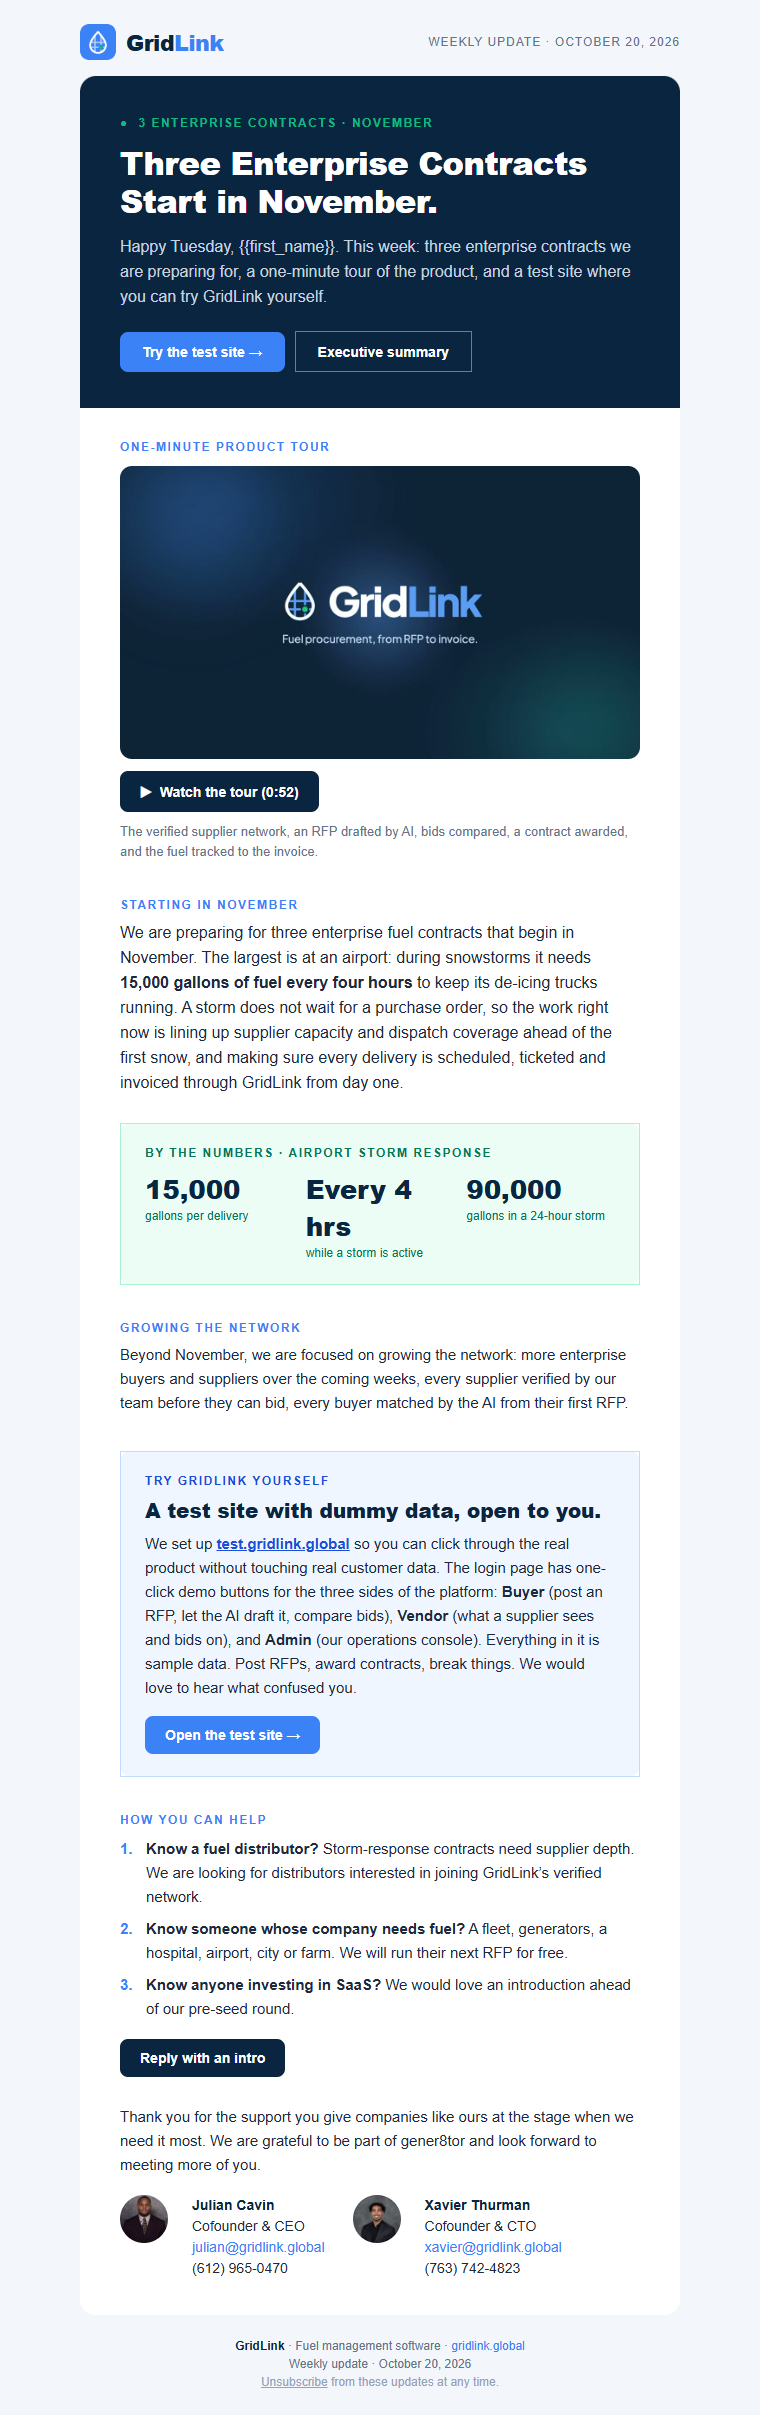
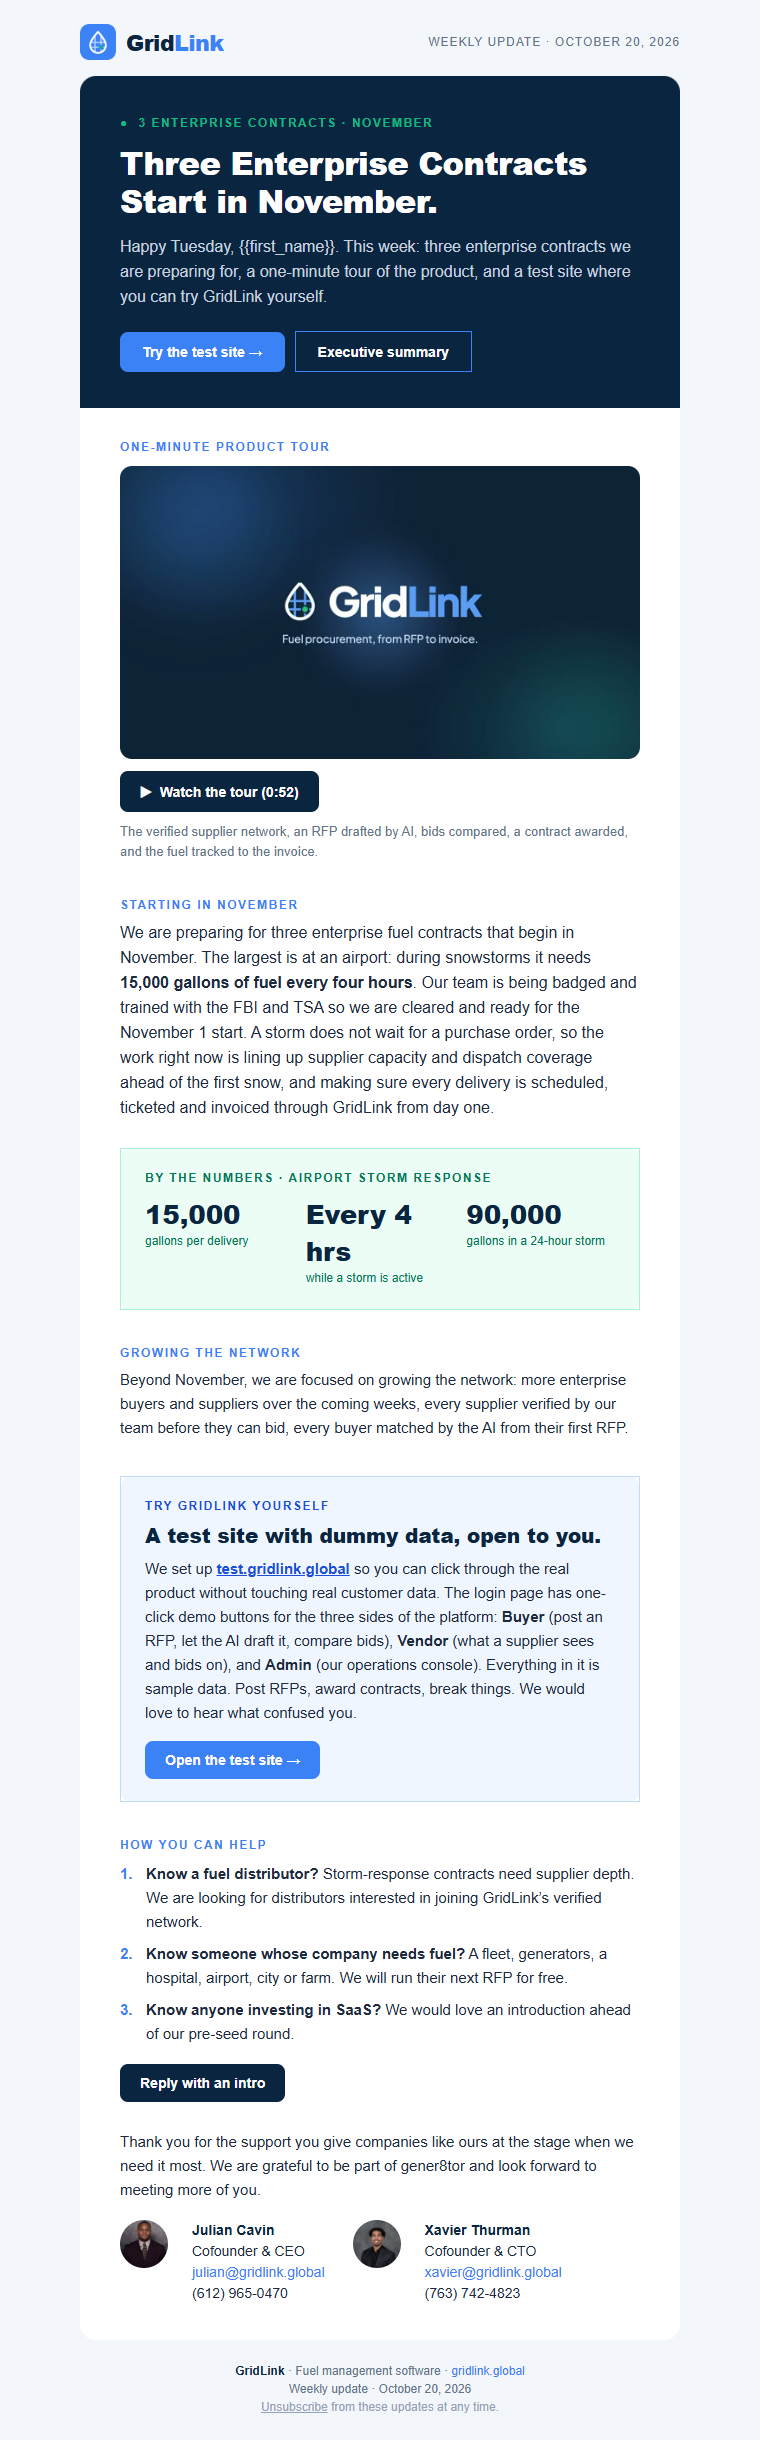
Newsletter #2: airport badging line, drop de-icing phrase

Changed region(s): [[0.1513, 0.3106, 0.8171, 0.9938], [0.1513, 0.0621, 0.8474, 0.1863], [0.3632, 0.2174, 0.6355, 0.2795]]

diff --git a/docs/newsletters/2026-10-update-02.html b/docs/newsletters/2026-10-update-02.html
@@ -80,7 +80,7 @@
   <tr><td style="background:#FFFFFF; padding:28px 40px 8px 40px;" class="pad">
     <table role="presentation" width="100%" cellpadding="0" cellspacing="0">
       <tr><td style="font-family:Helvetica,Arial,sans-serif; font-size:12px; font-weight:700; color:#3B82F6; text-transform:uppercase; letter-spacing:1.5px; padding-bottom:8px;">Starting in November</td></tr>
-      <tr><td style="font-family:Helvetica,Arial,sans-serif; font-size:16px; line-height:25px; color:#1E293B;">We are preparing for three enterprise fuel contracts that begin in November. The largest is at an airport: during snowstorms it needs <b>15,000 gallons of fuel every four hours</b> to keep its de-icing trucks running. A storm does not wait for a purchase order, so the work right now is lining up supplier capacity and dispatch coverage ahead of the first snow, and making sure every delivery is scheduled, ticketed and invoiced through GridLink from day one.</td></tr>
+      <tr><td style="font-family:Helvetica,Arial,sans-serif; font-size:16px; line-height:25px; color:#1E293B;">We are preparing for three enterprise fuel contracts that begin in November. The largest is at an airport: during snowstorms it needs <b>15,000 gallons of fuel every four hours</b>. Our team is being badged and trained with the FBI and TSA so we are cleared and ready for the November 1 start. A storm does not wait for a purchase order, so the work right now is lining up supplier capacity and dispatch coverage ahead of the first snow, and making sure every delivery is scheduled, ticketed and invoiced through GridLink from day one.</td></tr>
     </table>
   </td></tr>
 
